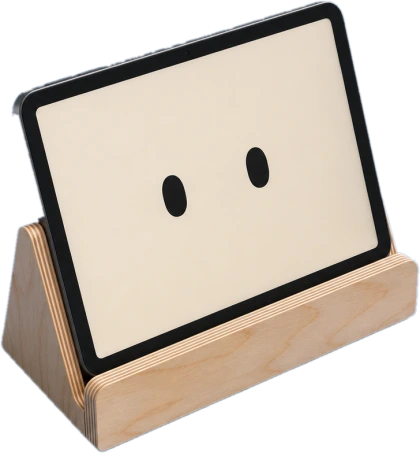
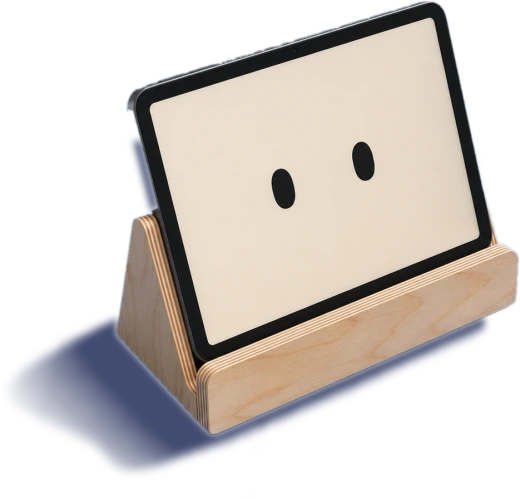
Bot tablet: design 17's own shadow kept in the cutout, stretched against the mat's slant

diff --git a/components/flipbook/FlipBookApp.tsx b/components/flipbook/FlipBookApp.tsx
@@ -354,7 +354,7 @@ async function loadStage(active: FlipBook, windowWidth = 1440, holdGreeting = fa
   // Bot: a tablet with two eyes leaning in a birch stand, standing on the mat right of the record (lib/mat/botTablet.ts)
   const bot: StageSpec['props'] = botTablet ? [{
     id: BOT_TABLET.id, image: botTablet, ...at(BOT_TABLET.lay.x, BOT_TABLET.lay.y),
-    w: BOT_TABLET.lay.w / px, h: (BOT_TABLET.lay.w * BOT_TABLET.aspect) / px, radius: 0, cutout: true, alphaShadow: true,
+    w: BOT_TABLET.lay.w / px, h: (BOT_TABLET.lay.w * BOT_TABLET.aspect) / px, radius: 0, cutout: true, alphaShadow: true, height: 0.05,
   }] : [];
   // the books' tray (its layer draws it, lib/mat/bookTrayLayer.ts): an unseen prop over its footprint, for clicks and fades
   const foot = trayFootFor();

diff --git a/lib/mat/botTablet.ts b/lib/mat/botTablet.ts
@@ -9,9 +9,9 @@ export const BOT_TABLET = {
   href: '/work/bot/',
   title: 'Bot',
   /** its middle and size in page pixels (the stage's 1440 by 900 frame): the clear mat right of the yellow record, above the clipboards */
-  lay: { x: 1106, y: 175, w: 104 },
+  lay: { x: 1094, y: 172, w: 128 },
   /** turned (radians, counter-clockwise from above) so the stand's cut left end, with the ply's layers, shows */
   turn: 0.75,
   /** the click target's height over its width: the standing thing fills it */
-  aspect: 784 / 728,
+  aspect: (897 / 935) * 1.2,   // stretched so the mat's slant does not squash it
 } as const;
